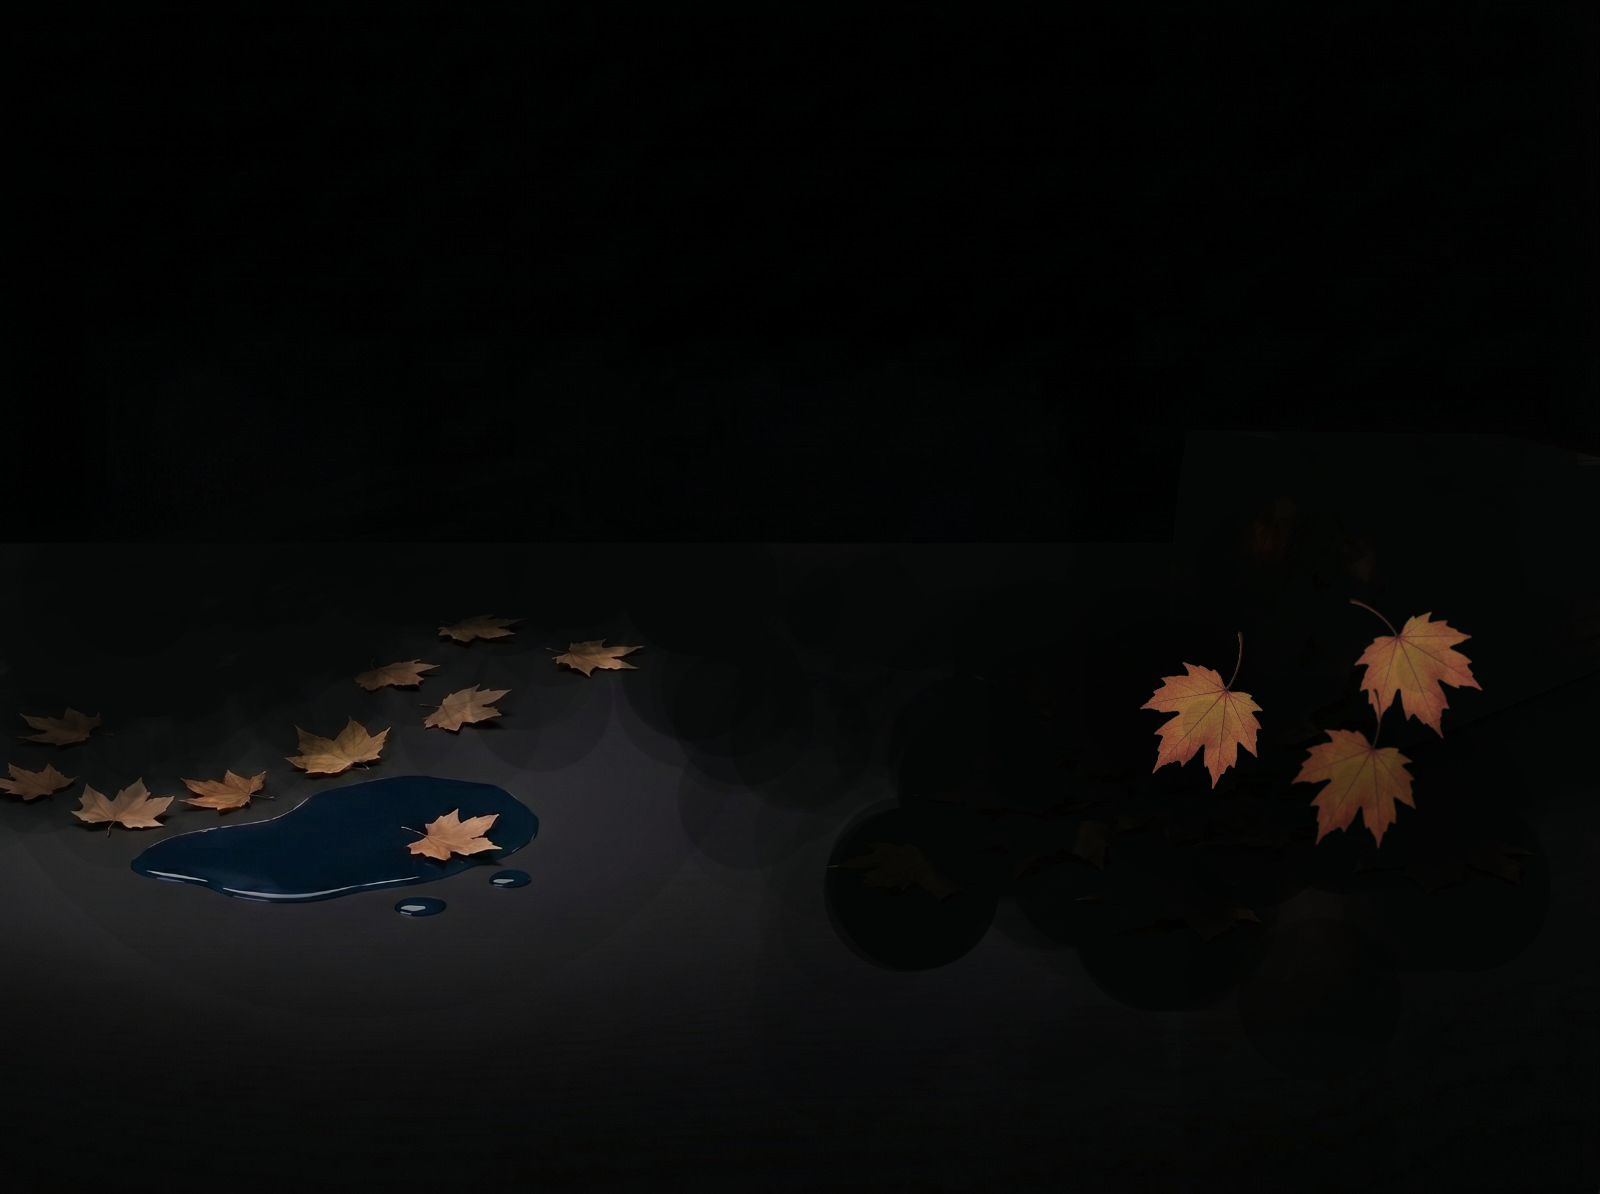
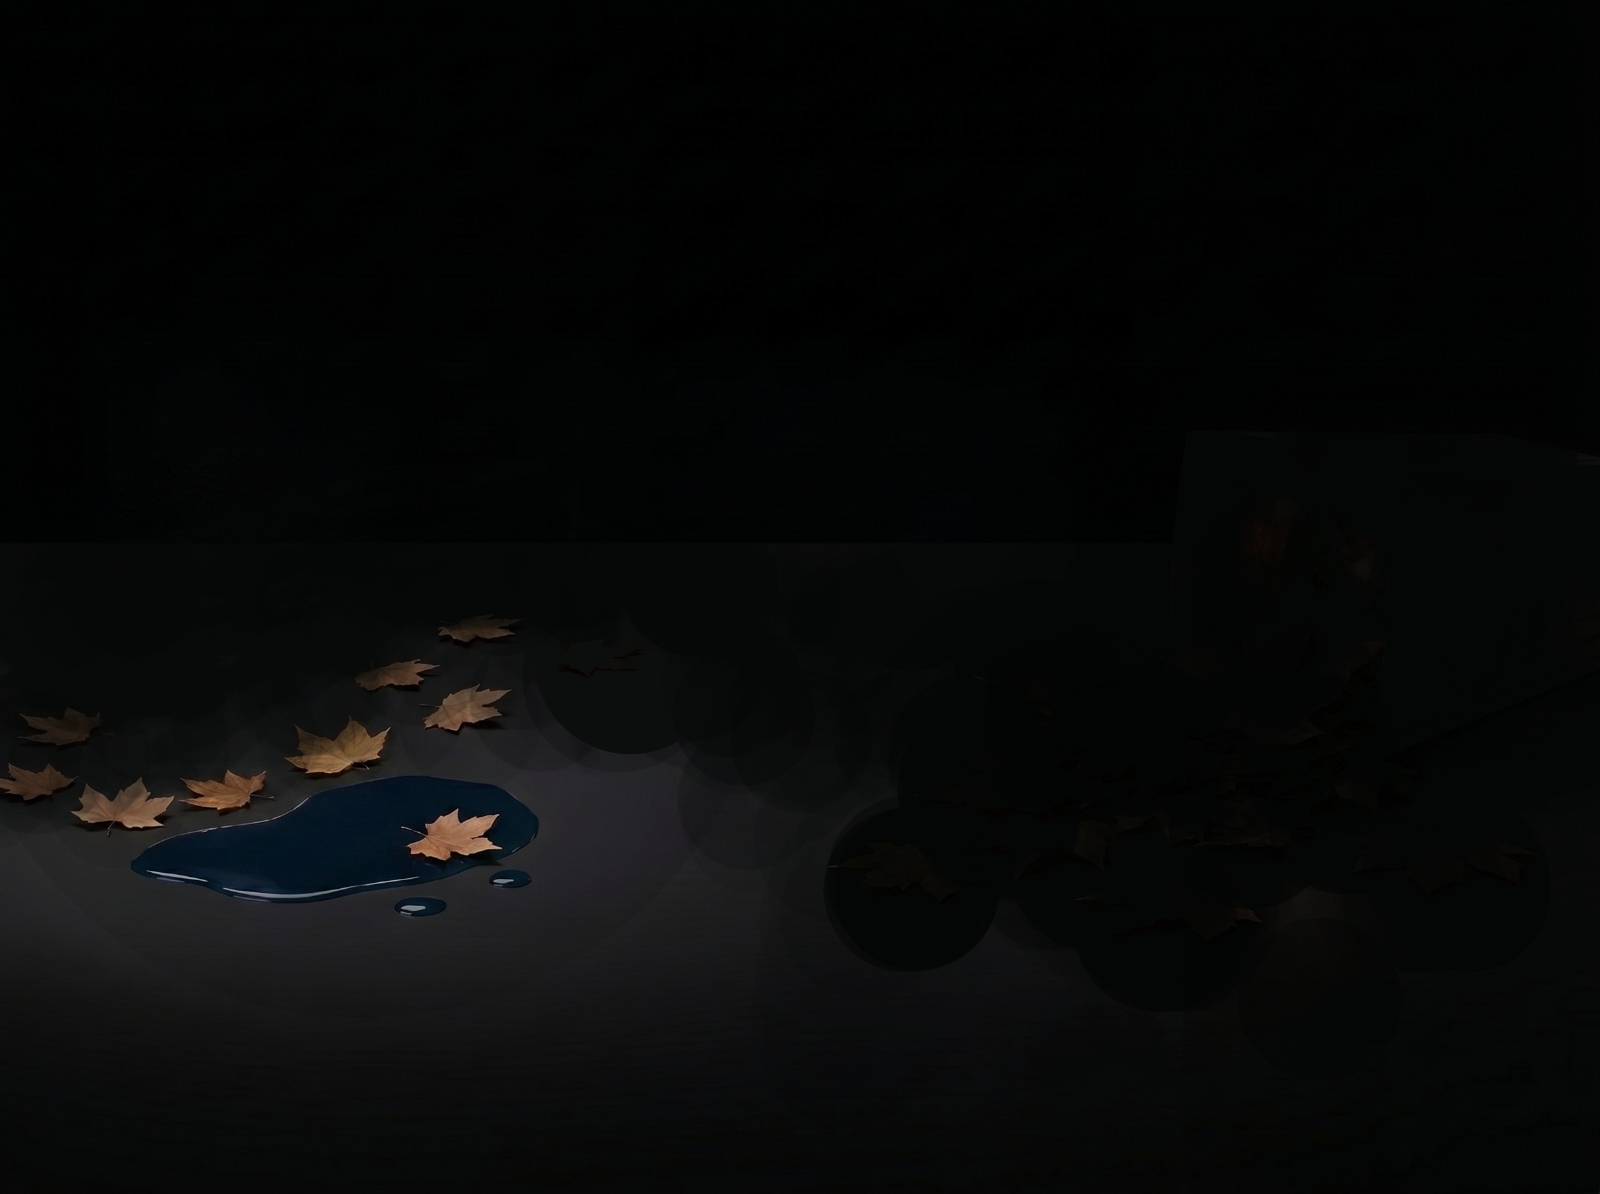
Fix UI alignments, camera constraints, and button padding

Changed region(s): [[0.7188, 0.4958, 0.9375, 0.7127], [0.375, 0.5888, 0.4062, 0.6508], [0.3438, 0.5268, 0.4062, 0.5578]]

diff --git a/app/page.tsx b/app/page.tsx
@@ -265,7 +265,7 @@ export default function Home() {
     }
     try {
       const stream = await navigator.mediaDevices.getUserMedia({
-        video: { facingMode, width: { ideal: 1280 }, height: { ideal: 1280 } },
+        video: { facingMode: { ideal: facingMode } },
         audio: false,
       });
       streamRef.current = stream;
@@ -279,7 +279,7 @@ export default function Home() {
       } else if (name === "NotReadableError") {
         setCameraError("Camera is in use by another app. Close it and try again.");
       } else {
-        setCameraError("Could not access camera. Please try again.");
+        setCameraError(`Could not access camera: ${err instanceof Error ? err.message : String(err)}`);
       }
     }
   }, [facingMode, stopCamera]);
@@ -743,7 +743,7 @@ export default function Home() {
               style={{
                 position: "absolute",
                 left: "50%",
-                bottom: "-40%",
+                bottom: "-35%",
                 transform: "translateX(-50%)",
                 width: "100vw",
                 maxWidth: "1600px",
@@ -890,6 +890,7 @@ export default function Home() {
                   gap: "12px",
                   zIndex: 10,
                   marginBottom: "20px",
+                  marginTop: "20px",
                 }}
               >
                 {/* Heading with subtle glow */}
@@ -1152,7 +1153,7 @@ export default function Home() {
         {stage === "camera" && (
           <motion.div
             key="camera"
-            className="flex flex-col items-center justify-center min-h-screen gap-6 px-4"
+            className="flex flex-col items-center justify-center min-h-screen gap-6 px-4 pt-24"
             initial={{ opacity: 0, scale: 0.95 }}
             animate={{ opacity: 1, scale: 1 }}
             exit={{ opacity: 0, scale: 0.95 }}
@@ -1256,7 +1257,8 @@ export default function Home() {
                 onClick={() =>
                   setFacingMode((m) => (m === "user" ? "environment" : "user"))
                 }
-                className="px-4 py-2 rounded-full text-sm text-white/60 border border-white/10 hover:border-white/30 transition cursor-pointer"
+                className="flex items-center justify-center h-10 rounded-full text-sm text-white/60 border border-white/10 hover:border-white/30 transition cursor-pointer"
+                style={{ padding: "0 24px", minWidth: "80px" }}
                 disabled={boothCapturing}
               >
                 Flip
@@ -1282,7 +1284,8 @@ export default function Home() {
                   setBoothPhotos([]);
                   setStage("landing");
                 }}
-                className="px-4 py-2 rounded-full text-sm text-white/60 border border-white/10 hover:border-white/30 transition cursor-pointer"
+                className="flex items-center justify-center h-10 rounded-full text-sm text-white/60 border border-white/10 hover:border-white/30 transition cursor-pointer"
+                style={{ padding: "0 24px", minWidth: "80px" }}
               >
                 Cancel
               </button>

diff --git a/app/FeedbackModal.tsx b/app/FeedbackModal.tsx
@@ -60,7 +60,7 @@ export default function FeedbackModal({ open, onClose }: { open: boolean; onClos
       const prev = JSON.parse(localStorage.getItem("memoryprint_feedback") ?? "[]");
       prev.push(entry);
       localStorage.setItem("memoryprint_feedback", JSON.stringify(prev));
-    } catch {}
+    } catch { }
 
     setSubmitted(true);
   };